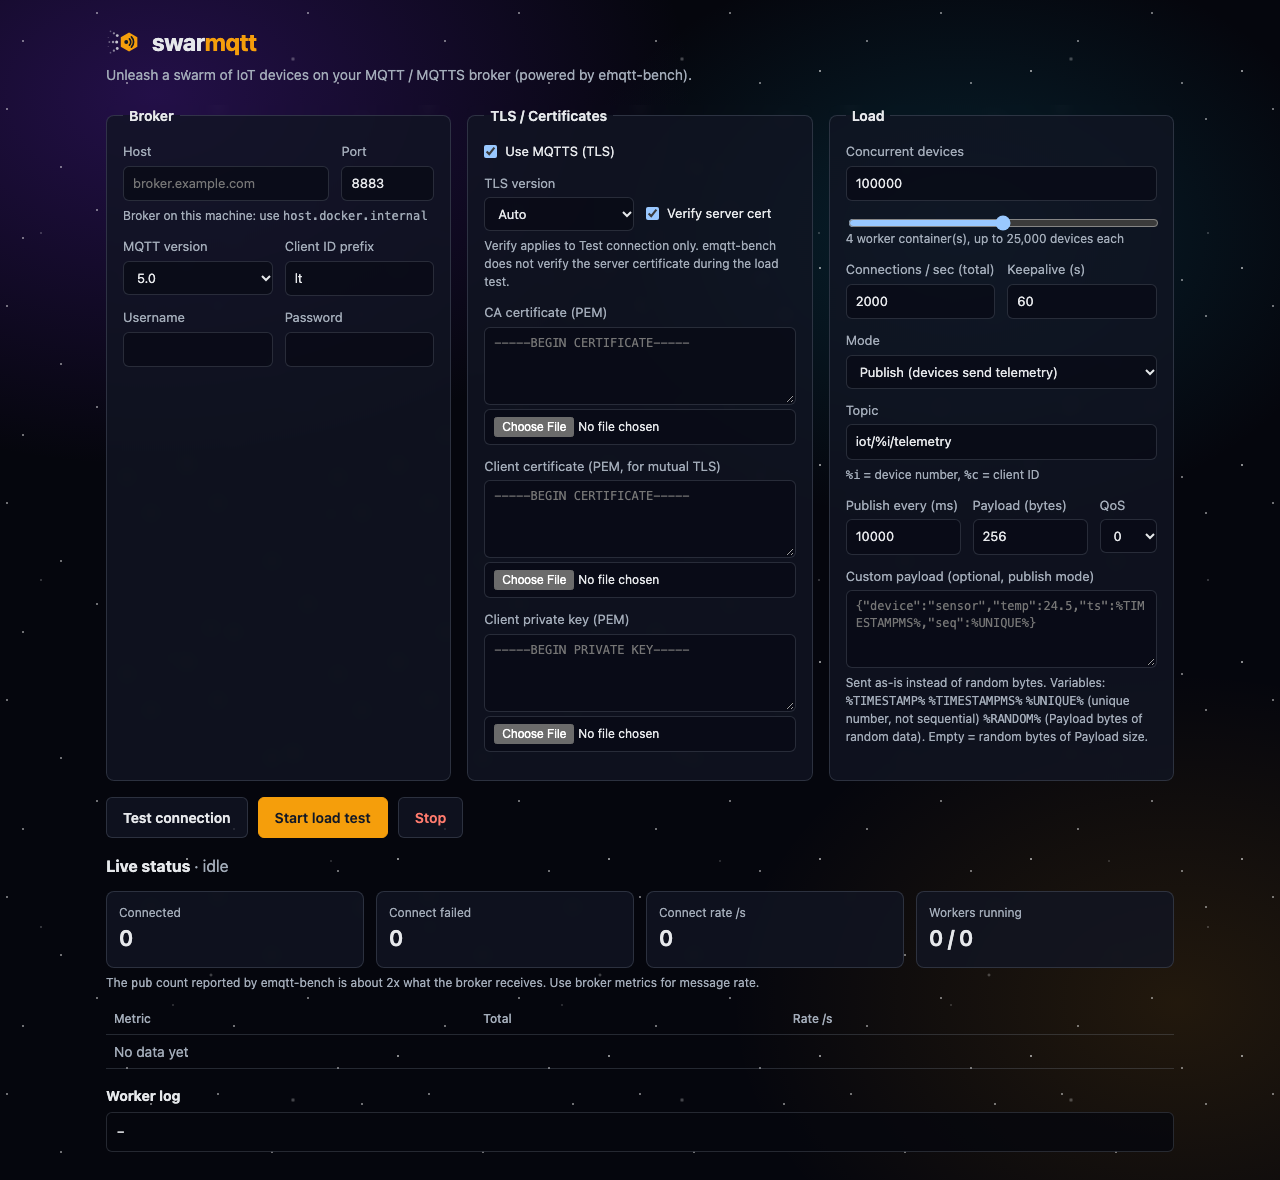
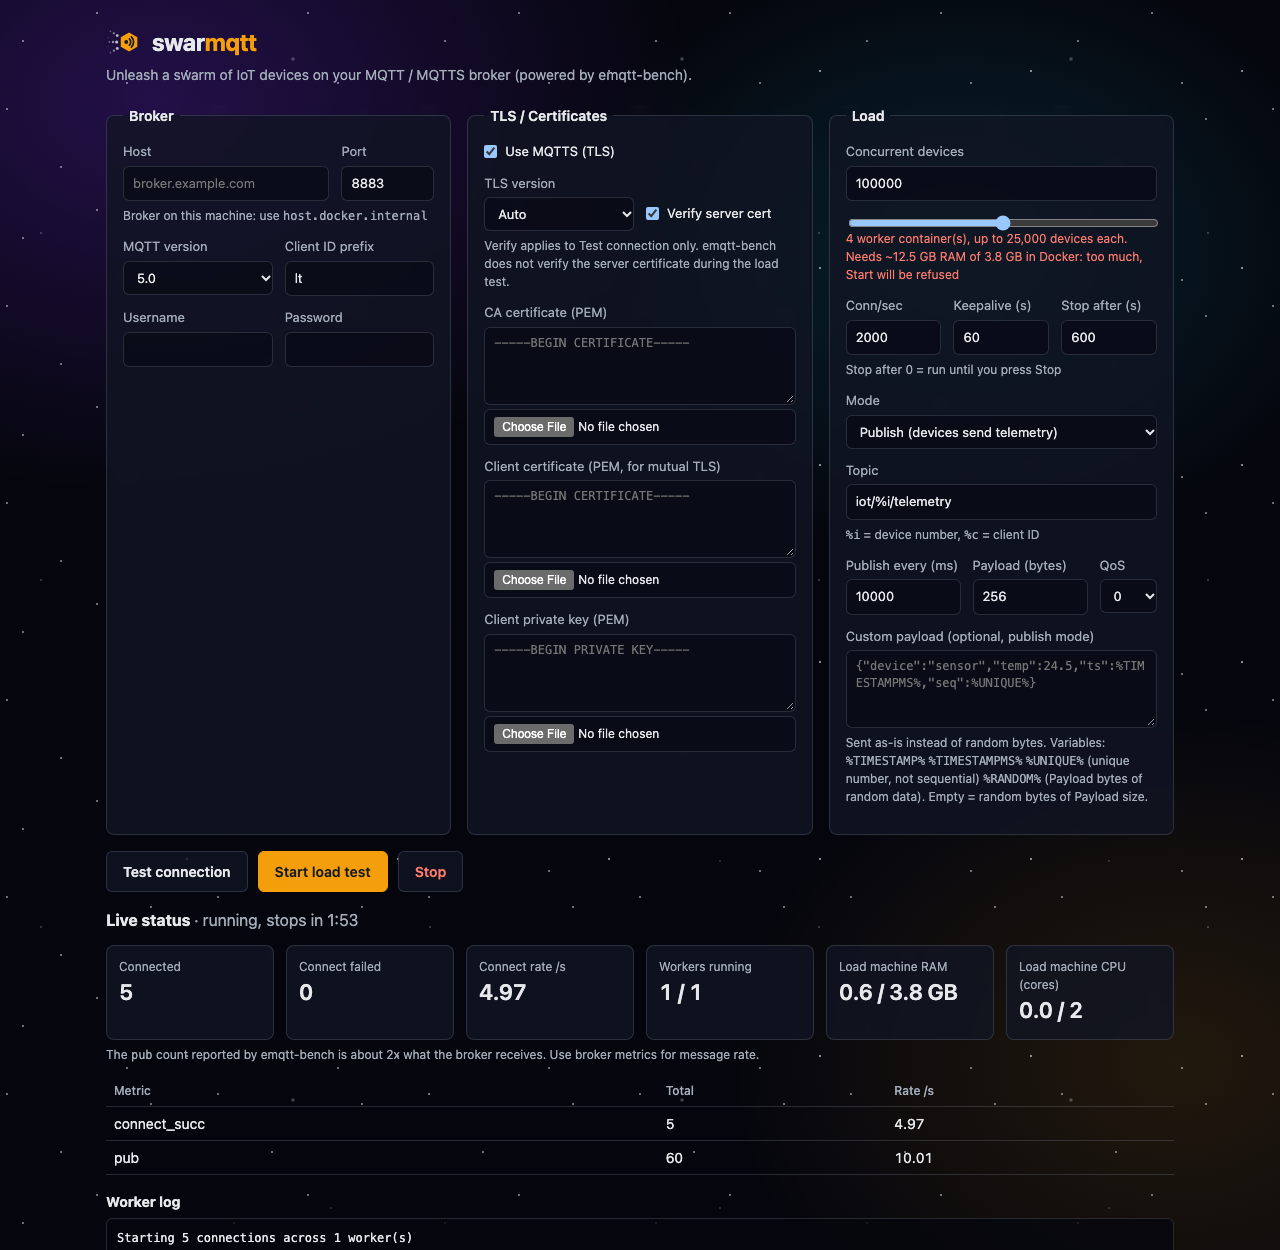
Add auto-stop duration, RAM preflight and live load-machine stats

diff --git a/web/index.html b/web/index.html
@@ -172,9 +172,11 @@
         <input id="totalRange" type="range" min="1000" max="200000" step="1000" value="100000" aria-label="Concurrent devices slider" style="width:100%">
         <p class="hint" id="workersHint"></p>
         <div class="row">
-          <label>Connections / sec (total) <input name="rate" type="number" min="1" value="2000" required></label>
+          <label>Conn/sec <input name="rate" type="number" min="1" value="2000" required></label>
           <label>Keepalive (s) <input name="keepalive" type="number" min="5" value="60" required></label>
+          <label>Stop after (s) <input name="duration" type="number" min="0" max="604800" value="600" required></label>
         </div>
+        <p class="hint">Stop after 0 = run until you press Stop</p>
         <label>Mode
           <select name="mode">
             <option value="pub">Publish (devices send telemetry)</option>
@@ -211,6 +213,8 @@
       <div class="card"><div class="k">Connect failed</div><div class="v" id="cFail">0</div></div>
       <div class="card"><div class="k">Connect rate /s</div><div class="v" id="cRate">0</div></div>
       <div class="card"><div class="k">Workers running</div><div class="v" id="cWorkers">0</div></div>
+      <div class="card"><div class="k">Load machine RAM</div><div class="v" id="cMem">-</div></div>
+      <div class="card"><div class="k">Load machine CPU (cores)</div><div class="v" id="cCpu">-</div></div>
     </div>
     <p class="hint">The <code>pub</code> count reported by emqtt-bench is about 2x what the broker receives. Use broker metrics for message rate.</p>
     <table>
@@ -226,6 +230,9 @@
 const f = document.getElementById('f');
 const $ = id => document.getElementById(id);
 const PER_WORKER = 25000;
+const WORKER_MEM = 575 * 2 ** 20, CONN_MEM = 107 * 2 ** 10;  // same estimate as app.py
+const GB = b => (b / 2 ** 30).toFixed(1) + ' GB';
+let memTotal = 0;
 const SECRET = ['password', 'key'];  // never saved in the browser
 const fmt = n => Number(n).toLocaleString();
 
@@ -257,8 +264,14 @@ function load() {
 function syncTotal(from) {
   if (from === 'range') f.elements.total.value = $('totalRange').value;
   else $('totalRange').value = f.elements.total.value;
-  const n = Math.max(1, Math.ceil((+f.elements.total.value || 0) / PER_WORKER));
-  $('workersHint').textContent = `${n} worker container(s), up to ${fmt(PER_WORKER)} devices each`;
+  const total = +f.elements.total.value || 0;
+  const n = Math.max(1, Math.ceil(total / PER_WORKER));
+  const need = n * WORKER_MEM + total * CONN_MEM;
+  let text = `${n} worker container(s), up to ${fmt(PER_WORKER)} devices each. Needs ~${GB(need)} RAM`;
+  if (memTotal) text += ` of ${GB(memTotal)} in Docker` + (need > memTotal * 0.9 ? ': too much, Start will be refused'
+    : need > memTotal * 0.7 ? ': tight, the load machine may run out first' : '');
+  $('workersHint').textContent = text;
+  $('workersHint').className = 'hint' + (memTotal && need > memTotal * 0.7 ? ' bad' : '');
 }
 
 function say(text, ok) {
@@ -322,7 +335,13 @@ async function poll() {
     $('cRate').textContent = fmt(get('connect_succ', 'rate'));
     const running = s.workers.filter(w => w.status === 'running').length;
     $('cWorkers').textContent = `${running} / ${s.workers.length}`;
-    $('state').textContent = s.running ? '· running' : s.workers.length ? '· stopped (workers exited)' : '· idle';
+    const left = s.ends_in ?? null;
+    const clock = left === null ? '' : `, stops in ${Math.floor(left / 60)}:${String(left % 60).padStart(2, '0')}`;
+    $('state').textContent = s.running ? '· running' + clock : s.workers.length ? '· stopped (workers exited)' : '· idle';
+    const L = s.load;
+    $('cMem').textContent = L.mem_total ? `${(L.mem / 2 ** 30).toFixed(1)} / ${GB(L.mem_total)}` : '-';
+    $('cCpu').textContent = L.ncpu ? `${L.cpu.toFixed(1)} / ${L.ncpu}` : '-';
+    if (L.mem_total !== memTotal) { memTotal = L.mem_total; syncTotal('input'); }
     const rows = Object.entries(t).sort().map(([k, v]) => `<tr><td>${k}</td><td>${fmt(v.total)}</td><td>${fmt(v.rate)}</td></tr>`);
     $('metrics').innerHTML = rows.join('') || '<tr><td colspan="3" class="sub">No data yet</td></tr>';
     $('logs').textContent = s.logs.join('\n') || '-';

diff --git a/web/app.py b/web/app.py
@@ -20,12 +20,19 @@ LABEL = "swarmqtt"
 PER_WORKER = 25000
 MAX_TOTAL = 1_000_000
 MAX_PAYLOAD = 256 * 1024
+# measured with emqtt-bench + TLS; plain MQTT uses less, so this errs on the safe side
+WORKER_MEM = 575 * 2**20
+CONN_MEM = 107 * 2**10
+MAX_MEM_SHARE = 0.9  # refuse above this share of Docker's RAM: the VM would crash mid-test
 METRIC = re.compile(r"(\w+) total=(\d+) rate=([\d.]+)")
 HOST_RE = re.compile(r"^[A-Za-z0-9.\-:\[\],]+$")
 
 dk = None  # docker client, set in main()
+mem_total = ncpu = 0  # Docker's RAM (bytes) and CPUs, set in main()
 lock = threading.Lock()
 stats = {}  # worker name -> {metric: {"total": int, "rate": float}}
+usage = {}  # worker name -> {"mem": bytes, "cpu": cores}
+run = {"id": 0, "timer": None, "ends_at": None}
 logs = collections.deque(maxlen=200)
 
 
@@ -33,9 +40,9 @@ class BadRequest(Exception):
     pass
 
 
-def _int(cfg, key, lo, hi):
+def _int(cfg, key, lo, hi, default=None):
     try:
-        v = int(cfg.get(key))
+        v = int(cfg.get(key, default))
     except (TypeError, ValueError):
         raise BadRequest(f"{key} must be a number")
     if not lo <= v <= hi:
@@ -70,6 +77,7 @@ def parse_cfg(raw):
         "interval": _int(raw, "interval", 1, 3_600_000),
         "size": _int(raw, "size", 1, 1_048_576),
         "payload": str(raw.get("payload", "")),
+        "duration": _int(raw, "duration", 0, 7 * 86400, 0),  # seconds, 0 = until stopped
     }
     if cfg["version"] not in ("3", "4", "5"):
         raise BadRequest("version must be 3, 4 or 5")
@@ -182,6 +190,10 @@ def plan(total, rate):
     return [(min(PER_WORKER, total - i * PER_WORKER), i * PER_WORKER, per_rate) for i in range(n)]
 
 
+def estimate_mem(total):
+    return math.ceil(total / PER_WORKER) * WORKER_MEM + total * CONN_MEM
+
+
 def workers():
     return dk.containers.list(all=True, filters={"label": LABEL})
 
@@ -205,15 +217,57 @@ def follow(container):
             logs.append(f"[{container.name}] log stream ended: {e}")
 
 
+def watch(container):
+    """Track a worker's RAM and CPU from the Docker stats stream (about one sample per second)."""
+    try:
+        for s in container.stats(stream=True, decode=True):
+            m, c, p = s.get("memory_stats", {}), s.get("cpu_stats", {}), s.get("precpu_stats", {})
+            cpu_d = c.get("cpu_usage", {}).get("total_usage", 0) - p.get("cpu_usage", {}).get("total_usage", 0)
+            sys_d = c.get("system_cpu_usage", 0) - p.get("system_cpu_usage", 0)
+            ms = m.get("stats", {})
+            mem = m.get("usage", 0) - ms.get("inactive_file", ms.get("cache", 0))  # what `docker stats` shows
+            with lock:
+                if not m:  # container stopped
+                    usage.pop(container.name, None)
+                    continue
+                usage[container.name] = {"mem": max(mem, 0),
+                                         "cpu": cpu_d / sys_d * c.get("online_cpus", 1) if sys_d > 0 else 0.0}
+    except Exception:  # container removed
+        pass
+    with lock:
+        usage.pop(container.name, None)
+
+
+def attach(container):
+    for target in (follow, watch):
+        threading.Thread(target=target, args=(container,), daemon=True).start()
+
+
 def stop():
+    with lock:
+        if run["timer"]:
+            run["timer"].cancel()
+        run.update(timer=None, ends_at=None)
     for c in workers():
         c.remove(force=True)
     with lock:
         stats.clear()
+        usage.clear()
+
+
+def expire(run_id):
+    if run["id"] == run_id:  # a newer test may have replaced this one
+        stop()
+        with lock:
+            logs.append("Duration reached: load test stopped")
 
 
 def start(cfg):
     import docker
+    need = estimate_mem(cfg["total"])
+    if mem_total and need > mem_total * MAX_MEM_SHARE:
+        raise BadRequest(f"{cfg['total']:,} devices need ~{need / 2**30:.1f} GB RAM but Docker has "
+                         f"{mem_total / 2**30:.1f} GB: lower the devices, give Docker more RAM, or split across machines")
     stop()
     with lock:
         logs.clear()
@@ -231,7 +285,14 @@ def start(cfg):
             ulimits=[docker.types.Ulimit(name="nofile", soft=1048576, hard=1048576)],
             sysctls={"net.ipv4.ip_local_port_range": "1024 65535"},
             extra_hosts={"host.docker.internal": "host-gateway"})
-        threading.Thread(target=follow, args=(c,), daemon=True).start()
+        attach(c)
+    with lock:
+        run["id"] += 1
+        if cfg["duration"]:
+            run["timer"] = threading.Timer(cfg["duration"], expire, args=(run["id"],))
+            run["timer"].daemon = True
+            run["timer"].start()
+            run["ends_at"] = time.time() + cfg["duration"]
 
 
 def status():
@@ -243,8 +304,12 @@ def status():
                 t = totals.setdefault(k, {"total": 0, "rate": 0.0})
                 t["total"] += v["total"]
                 t["rate"] = round(t["rate"] + v["rate"], 2)
+        load = {"mem": sum(u["mem"] for u in usage.values()), "mem_total": mem_total,
+                "cpu": round(sum(u["cpu"] for u in usage.values()), 2), "ncpu": ncpu}
         return {"running": any(w["status"] == "running" for w in ws), "workers": ws,
-                "totals": totals, "logs": list(logs)[-50:]}
+                "totals": totals, "load": load,
+                # seconds left, not a timestamp: the Docker VM clock can drift from the viewer's
+                "ends_in": run["ends_at"] and max(0, round(run["ends_at"] - time.time())), "logs": list(logs)[-50:]}
 
 
 class Handler(BaseHTTPRequestHandler):
@@ -289,11 +354,13 @@ class Handler(BaseHTTPRequestHandler):
 
 
 def main():
-    global dk
+    global dk, mem_total, ncpu
     import docker
     dk = docker.from_env()
-    for c in workers():  # reattach after a web restart
-        threading.Thread(target=follow, args=(c,), daemon=True).start()
+    info = dk.info()
+    mem_total, ncpu = info["MemTotal"], info["NCPU"]
+    for c in workers():  # reattach after a web restart (the duration timer is not restored)
+        attach(c)
     import mcp_server
     threading.Thread(target=mcp_server.serve, daemon=True).start()
     print("Listening on :8080 (UI) and :8081/mcp (MCP)")

diff --git a/web/mcp_server.py b/web/mcp_server.py
@@ -59,6 +59,7 @@ def start_load_test(
     publish_interval_ms: int = 10000,
     payload_bytes: int = 256,
     payload: str = "",
+    duration_sec: int = 600,
     qos: int = 0,
     keepalive: int = 60,
     tls: bool = True,
@@ -77,19 +78,28 @@ def start_load_test(
     `payload` sets custom message content (e.g. JSON) instead of `payload_bytes` random bytes; it may use
     %TIMESTAMP%, %TIMESTAMPMS%, %UNIQUE% (unique number per message, not sequential) and %RANDOM% (payload_bytes random bytes).
     The broker certificate is NOT verified during the load test.
+    The test stops by itself after `duration_sec` (0 = run until stop_load_test). It is refused if the
+    estimated RAM does not fit the Docker host.
     """
     cfg = _cfg(
         host=host, port=port, total=devices, rate=connections_per_sec, mode=mode, topic=topic,
-        interval=publish_interval_ms, size=payload_bytes, payload=payload, qos=qos, keepalive=keepalive, tls=tls,
+        interval=publish_interval_ms, size=payload_bytes, payload=payload, duration=duration_sec, qos=qos, keepalive=keepalive, tls=tls,
         tls_version=tls_version, version=mqtt_version, prefix=client_id_prefix, username=username,
         password=password, cert=client_cert_pem, key=client_key_pem)
-    app.start(cfg)
+    try:
+        app.start(cfg)
+    except app.BadRequest as e:
+        raise ToolError(str(e)) from None
     return {"started": True, "devices": devices, "workers": len(app.plan(devices, connections_per_sec))}
 
 
 @mcp.tool(annotations=ToolAnnotations(readOnlyHint=True))
 def get_status() -> dict:
     """Live totals (connect_succ, connect_fail, pub, ...), worker containers and recent worker log lines.
+
+    `load` is the load generator itself: worker RAM (bytes) vs Docker's mem_total, and CPU in cores vs ncpu.
+    If it is near the limit, failures come from the load machine, not the broker. `ends_in` is the
+    seconds until the test stops by itself (null = no limit).
 
     The `pub` count from emqtt-bench is about 2x what the broker actually receives.
     """

diff --git a/web/test_app.py b/web/test_app.py
@@ -30,8 +30,22 @@ class AppTest(unittest.TestCase):
             with open(app.write_certs(cfg, d)["payload"]) as f:
                 self.assertEqual(f.read(), '{"t":%TIMESTAMPMS%}')
 
+    def test_estimate_mem_and_refuse_when_too_big(self):
+        self.assertEqual(app.estimate_mem(100000), 4 * app.WORKER_MEM + 100000 * app.CONN_MEM)
+        app.mem_total = 4 * 2**30
+        try:
+            with self.assertRaises(app.BadRequest):
+                app.start(app.parse_cfg(BASE))  # 100k devices ~13 GB, refused before touching Docker
+        finally:
+            app.mem_total = 0
+
+    def test_duration_defaults_to_unlimited(self):
+        self.assertEqual(app.parse_cfg(BASE)["duration"], 0)
+        self.assertEqual(app.parse_cfg({**BASE, "duration": "600"})["duration"], 600)
+
     def test_parse_cfg_rejects_bad_input(self):
-        for bad in ({"host": "a b"}, {"port": 0}, {"total": 0}, {"mode": "x"}, {"cert": "C"}, {"payload": "x" * (app.MAX_PAYLOAD + 1)}):
+        for bad in ({"host": "a b"}, {"port": 0}, {"total": 0}, {"mode": "x"}, {"cert": "C"}, {"payload": "x" * (app.MAX_PAYLOAD + 1)},
+                    {"duration": -1}):
             with self.assertRaises(app.BadRequest):
                 app.parse_cfg({**BASE, **bad})
 

diff --git a/skills/swarmqtt-load-test/SKILL.md b/skills/swarmqtt-load-test/SKILL.md
@@ -36,19 +36,20 @@ The load generator runs out of memory long before a decent broker does, and a cr
 - workers = ceil(devices / 25,000)
 - 100k TLS devices ≈ 4 × 575 MB + 100k × 107 KB ≈ **13 GB**
 
-Check what Docker has with `docker info --format '{{.MemTotal}} {{.NCPU}}'` (on Docker Desktop / colima this is the VM size, not the host's, and other containers already use part of it). Keep the estimate under ~70% of it. If it doesn't fit, tell the user the maximum this machine can do and offer options: a bigger VM, a Linux box closer to the broker, or several machines each running swarmqtt with a different `client_id_prefix` so client IDs don't collide.
+Check what Docker has with `docker info --format '{{.MemTotal}} {{.NCPU}}'` (on Docker Desktop / colima this is the VM size, not the host's, and other containers already use part of it). Keep the estimate under ~70% of it. `start_load_test` refuses anything above 90% by itself, so treat that error as "this machine is too small", not a broker problem. During the run, `get_status` → `load` shows the workers' actual RAM (vs `mem_total`) and CPU in cores (vs `ncpu`): if either is near the limit, the load machine is the bottleneck and any failures at that step don't count against the broker. If it doesn't fit, tell the user the maximum this machine can do and offer options: a bigger VM, a Linux box closer to the broker, or several machines each running swarmqtt with a different `client_id_prefix` so client IDs don't collide.
 
 ## 4. Run it
 
 1. **`test_connection`** with the real settings and `verify_server_cert=true` if they have the CA. Fix any failure here; it is much cheaper to debug one connection than 100k. Note the connect latency as a baseline.
 2. **Smoke run**: ~100–1,000 devices. Wait until `connect_succ` reaches the target, then read `get_status` twice ~10 s apart. Any `connect_fail` or worker not `running` at this size is a config problem, not a capacity limit: stop and fix it.
-3. **Ramp**: increase in steps (e.g. 1k → 10k → 25k → 50k → 100k, or 2x per step when looking for the limit). `start_load_test` replaces the running test, so each step reconnects everything from zero; that is fine and also tests reconnect storms. At each step, wait for connections to settle, then hold for at least 1–2 minutes (a few keepalive periods) and sample `get_status` every ~15–30 s.
+3. **Ramp**: increase in steps (e.g. 1k → 10k → 25k → 50k → 100k, or 2x per step when looking for the limit). `start_load_test` replaces the running test, so each step reconnects everything from zero; that is fine and also tests reconnect storms. At each step, wait for connections to settle, then hold for at least 1–2 minutes (a few keepalive periods) and sample `get_status` every ~15–30 s. Set `duration_sec` a bit longer than you plan to hold each step (default 600) so a forgotten or interrupted session can't leave load running; `ends_in` in `get_status` shows the seconds left.
 4. Pick a sensible `connections_per_sec`: the TLS handshake is the expensive part for the broker. Start around 500–2,000/s total and raise it only if the goal is to test connection storms.
 
 **Stop the ramp and record the last good step when any of these happens:**
 
 - `connect_fail` above ~1% of the target, or still climbing
 - `connect_succ` stops growing well short of the target for more than a minute
+- `load.mem` near `load.mem_total` or `load.cpu` near `ncpu` (the load machine's limit, not the broker's: report it as such)
 - workers show `exited` (read the log lines in the status: often out of memory or file descriptors on the load side)
 - the broker's own metrics show CPU pinned, memory near the limit, or dropped connections (ask the user for them if you can't see them)
 - the Docker daemon stops responding (load machine overloaded, not the broker)
@@ -97,4 +98,4 @@ Base URL `http://localhost:8080`. All bodies are JSON.
 | GET | `/api/status` | `{running, workers[], totals{metric:{total,rate}}, logs[]}` |
 | POST | `/api/stop` | stop and remove workers |
 
-Fields for `/api/test` and `/api/start`: `host`, `port`, `version` ("3"/"4"/"5"), `username`, `password`, `prefix`, `tls` (bool), `verify` (bool, test only), `tls_version` ("", "tlsv1.2", "tlsv1.3"), `ca`, `cert`, `key` (PEM text), `mode` ("pub"/"sub"/"conn"), `topic` (`%i` device number, `%c` client ID), `qos`, `total` (devices), `rate` (total conn/s), `keepalive`, `interval` (ms), `size` (bytes), `payload` (custom message text, optional). `/api/test` validates the whole form too, so send the same full body as `/api/start`. Errors come back as HTTP 400 with `{"error": "..."}`.
+Fields for `/api/test` and `/api/start`: `host`, `port`, `version` ("3"/"4"/"5"), `username`, `password`, `prefix`, `tls` (bool), `verify` (bool, test only), `tls_version` ("", "tlsv1.2", "tlsv1.3"), `ca`, `cert`, `key` (PEM text), `mode` ("pub"/"sub"/"conn"), `topic` (`%i` device number, `%c` client ID), `qos`, `total` (devices), `rate` (total conn/s), `keepalive`, `interval` (ms), `size` (bytes), `payload` (custom message text, optional), `duration` (seconds, 0 = until stopped; `/api/start` defaults to 0, so set it). `/api/status` also returns `load` and `ends_in`. `/api/test` validates the whole form too, so send the same full body as `/api/start`. Errors come back as HTTP 400 with `{"error": "..."}`.
